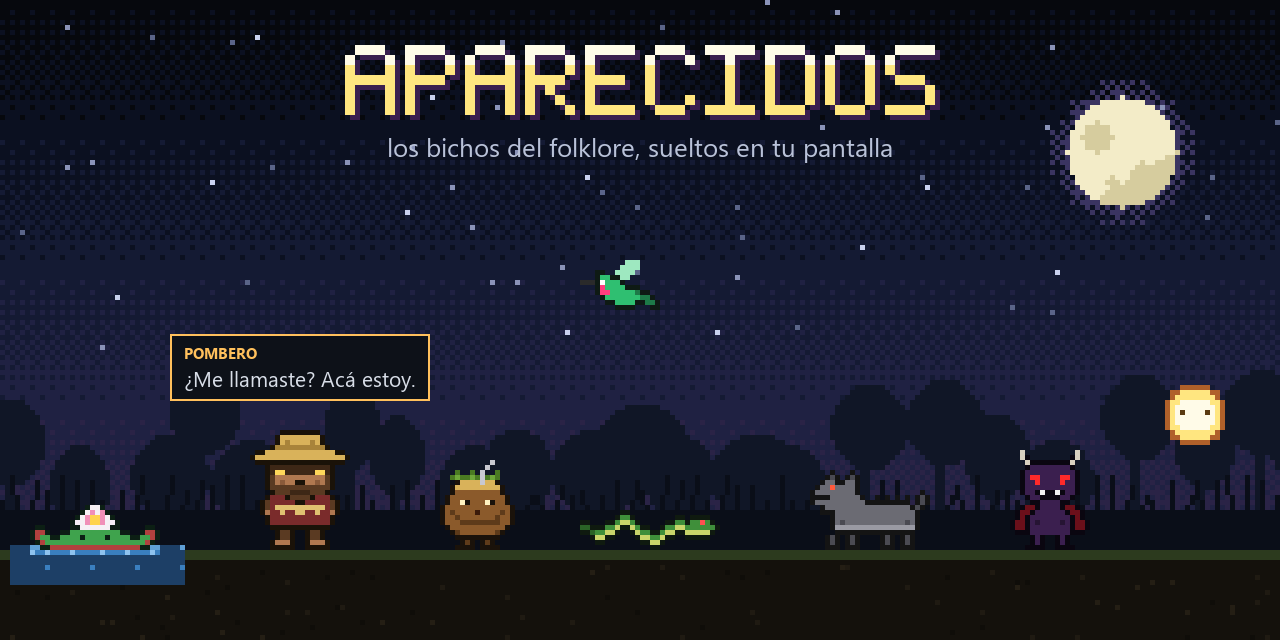
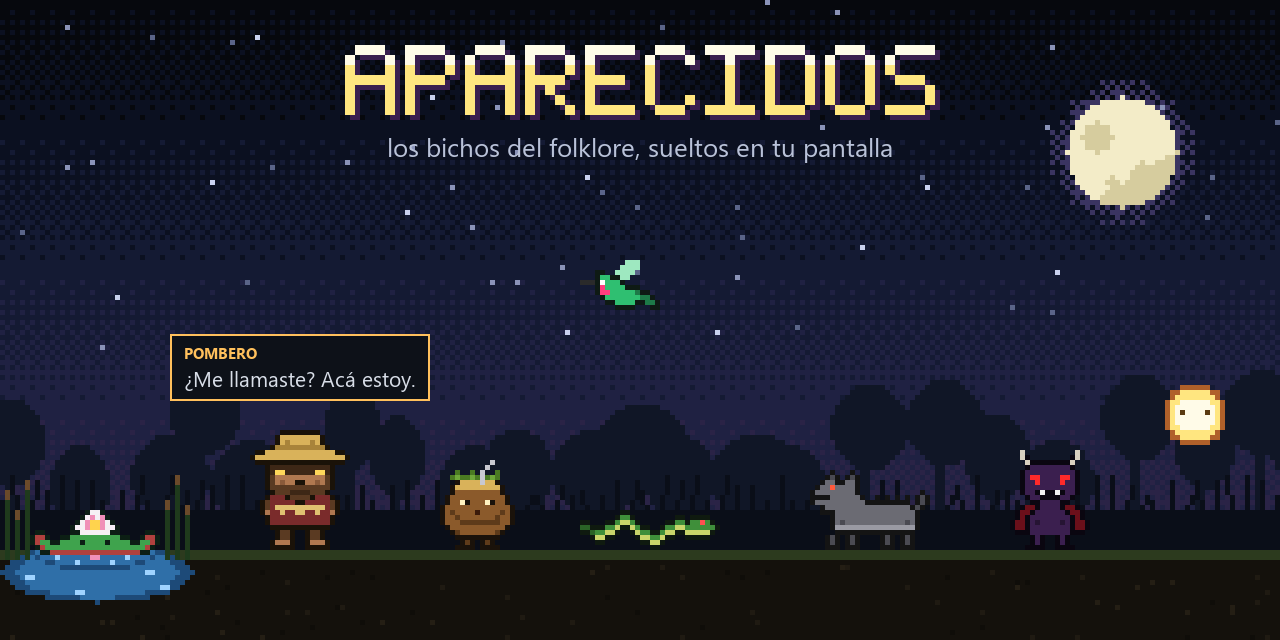
Irupé: charquito ovalado con reflejo; laguna con juncos en la portada

Changed region(s): [[0.0, 0.75, 0.1562, 0.9375]]

diff --git a/assets/portada.py b/assets/portada.py
@@ -92,13 +92,25 @@ def suelo(d, px, rnd):
         px[x, y] = hexa(rnd.choice(("#1f1a12", "#241e14", "#0f0d09")))
 
 
-def laguna(d, px, x0, x1, fase=0):
-    d.rectangle([x0, PISO - 1, x1, PISO + 6], fill=hexa("#1d3f66"))
-    for x in range(x0, x1 + 1):
-        if (x + fase) % 6 in (0, 1):
-            px[x, PISO - 1] = hexa("#5f9fd6")
-        if (x + fase * 2) % 9 == 0:
-            px[x, PISO + 3] = hexa("#3a7fbf")
+def laguna(px, cx, rx, ry, fase=0):
+    """Laguna ovalada con borde oscuro, brillos que se corren y juncos en las orillas."""
+    agua, borde, brillo = hexa("#2f6fa8"), hexa("#1d4a78"), hexa("#9fd3ff")
+    cy = PISO + 4
+    for y in range(cy - ry, cy + ry + 1):
+        for x in range(cx - rx, cx + rx + 1):
+            d = ((x - cx) / rx) ** 2 + ((y - cy) / ry) ** 2
+            if d <= 1:
+                px[x, y] = borde if d > 0.72 else agua
+    for i, (bx, by) in enumerate(((-12, 1), (9, 0), (-4, 4), (14, 3), (2, -1))):
+        x = cx + bx + (fase + i * 3) % 4 - 2
+        px[x, cy + by] = brillo
+        px[x + 1, cy + by] = brillo
+    tallo, punta = hexa("#1f3a1c"), hexa("#6b4a2a")
+    for x, alto in ((cx - rx + 1, 13), (cx - rx + 3, 9), (cx - rx + 5, 15),
+                    (cx + rx - 5, 11), (cx + rx - 3, 16), (cx + rx - 1, 10)):
+        for y in range(PISO + 1 - alto, PISO + 2):
+            px[x, y] = tallo
+        px[x, PISO + 1 - alto] = px[x, PISO + 2 - alto] = punta
 
 
 def sello(lienzo, clave, cuadro, x, y, espejo=False):
@@ -152,7 +164,7 @@ def escena(t):
     luna(px, 224, 30, 11)
     monte(d, random.Random(7))
     suelo(d, px, random.Random(9))
-    laguna(d, px, 2, 36, fase=int(t * 12))
+    laguna(px, 19, 19, 6, fase=int(t * 12))
     titulo(px, "APARECIDOS", 9)
 
     paso = int(t * 16) % 2 == 1
@@ -160,7 +172,7 @@ def escena(t):
     q = "paso" if paso else "quieto"
     ola = math.sin(t * 2 * math.pi)
 
-    sello(px, "irupe", "paso" if paso else "quieto", 6, PISO - 9)
+    sello(px, "irupe", "paso" if paso else "quieto", 6, PISO - 8)
     sello(px, "pombero", q, 50, PISO - 24)
     sello(px, "kaayaryi", q, 88, PISO - 18)
     sello(px, "mboi", q, 116, PISO - 9)

diff --git a/motor/sprites.py b/motor/sprites.py
@@ -308,11 +308,25 @@ _IRUPE = [
     "KllK..KKLLLLLLLLLLKK..KllK",
     "KlLLKKLLLLKLLLLKLLLLKKLLlK",
     ".Kl" + "L" * 20 + "lK.",
-    "..KK" + "l" * 18 + "KK..",
+    "oAKK" + "l" * 18 + "KKAo",
 ]
-_AGUA = "aAAaAAAAaAAAAAaAAAAaAAAAaA"
-_IRUPE_QUIETO = _IRUPE + [_AGUA]
-_IRUPE_PASO = _IRUPE + [_AGUA[2:] + _AGUA[:2]]
+
+
+def _charco(brillos):
+    """Charquito ovalado bajo la hoja, con el reflejo de la flor y brillos que se corren."""
+    filas = [
+        list(".o" + "A" * 22 + "o."),
+        list("...oo" + "A" * 16 + "oo..."),
+        list("......" + "o" * 14 + "......"),
+    ]
+    filas[0][12] = filas[0][13] = "p"  # la flor reflejada
+    for fila, x in brillos:
+        filas[fila][x] = "w"
+    return ["".join(f) for f in filas]
+
+
+_IRUPE_QUIETO = _IRUPE + _charco([(0, 5), (0, 19), (1, 9), (1, 16)])
+_IRUPE_PASO = _IRUPE + _charco([(0, 7), (0, 17), (1, 7), (1, 18)])
 _IRUPE_BOCA = ".Kl" + "L" * 9 + "KK" + "L" * 9 + "lK."
 IRUPE = {
     "nombre": "Irupé",
@@ -323,7 +337,7 @@ IRUPE = {
     "espejar": False,
     "paleta": {
         "K": "#0c1f14", "L": "#3fa34d", "l": "#b0413e", "P": "#f6f0f5",
-        "p": "#f08fb8", "Y": "#ffd34d", "A": "#3a7fbf", "a": "#8fc3ef",
+        "p": "#f08fb8", "Y": "#ffd34d", "A": "#2f6fa8", "o": "#1d4a78", "w": "#9fd3ff",
     },
     "cuadros": {
         "quieto": _IRUPE_QUIETO,
